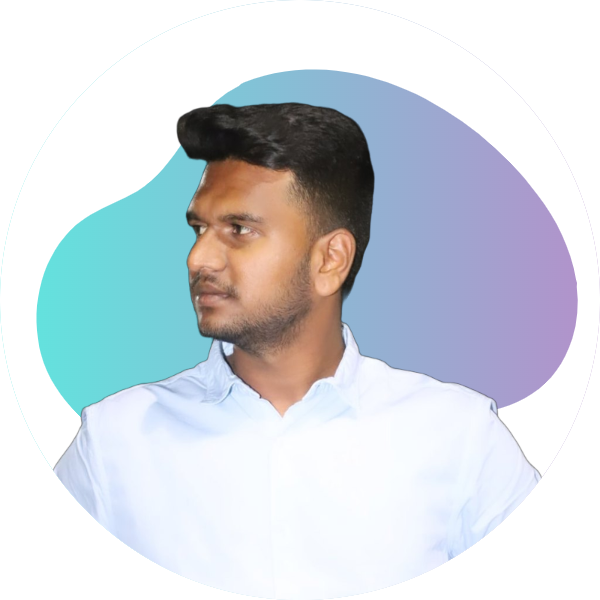
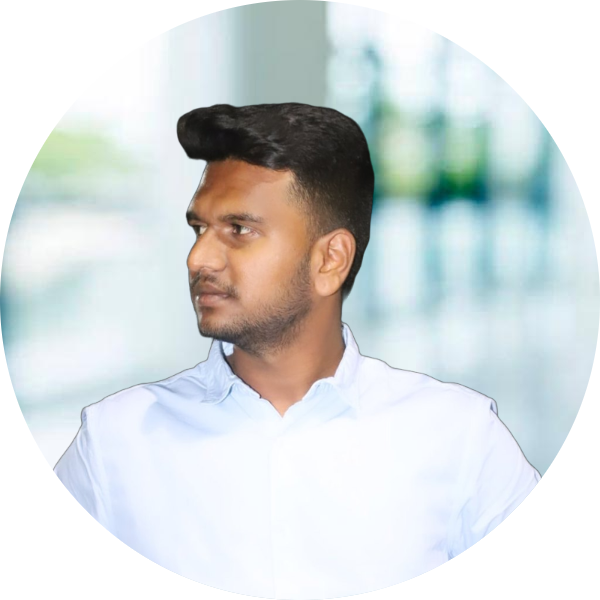
Final Commit

diff --git a/html/learner/lessons.html b/html/learner/lessons.html
@@ -1,12 +1,15 @@
 <!DOCTYPE html>
 <html lang="en">
+
 <head>
     <meta charset="UTF-8">
     <meta name="viewport" content="width=device-width, initial-scale=1.0">
     <title>Qwick Learn - Student lessons</title>
     <link rel="stylesheet" href="../../css/learner/lessons.css">
+
+
     <style>
-        .btn{
+        .btn {
             background-color: #4CAF50;
             color: #fff;
             padding: 10px 20px;
@@ -15,75 +18,82 @@
             cursor: pointer;
 
         }
-        li{
-            list-style: none;
 
+        li {
+            list-style: none;
+            margin-bottom: 5px;
+            font-size: 16px;
         }
     </style>
 </head>
+
 <body>
-         
-  <!--Main Content-->
-  <div class="container">
-    <nav class="breadcrumb">
-        <a href="mylearning.html">Home</a> >
-        <span id="course-name">Course Name</span>
-    </nav>
-    <div class="content">
-        <div class="main-content">
-            <div class="video-section">
-                <iframe id="video-frame" class="video-placeholder" frameborder="0"></iframe>
+
+    <!--Main Content-->
+    <div class="container">
+        <nav class="breadcrumb">
+            <a href="mylearning.html">Home</a> >
+            <span id="course-name">Course Name</span>
+        </nav>
+        <div class="content">
+            <div class="main-content">
+                <div class="video-section">
+                    <iframe id="video-frame" class="video-placeholder" frameborder="0"></iframe>
+                </div>
+                <div class="tabs">
+                    <button class="tablink" onclick="openTab(event, 'Overview')">Overview</button>
+                    <button class="tablink" onclick="openTab(event, 'Notes')">Notes</button>
+                    <button class="tablink" onclick="openTab(event, 'Resources')">Resources</button>
+                    <button class="tablink" onclick="openTab(event, 'Quiz')">Quiz</button>
+                </div>
+                <div class="tabcontent" id="Overview">
+                    <p id="overview-content">Overview content goes here.</p>
+                </div>
+                <div class="tabcontent" id="Notes">
+                    <textarea id="notes-text" rows="10" cols="100"
+                        placeholder="Write your notes here..."></textarea><br>
+                    <button onclick="downloadNotes()">Download Notes</button>
+                </div>
+                <div class="tabcontent" id="Resources">
+                    <ul id="resources-list"></ul>
+                    <iframe id="pdf-frame" style="width: 100%; height: 500px; border: none;"></iframe>
+                </div>
+
+
+                <div class="tabcontent" id="Quiz">
+                    <form id="quiz-form">
+                        <div id="quiz-content"></div>
+                        <button type="button" id="submit-quiz" class="btn">Submit Quiz</button>
+                    </form>
+                </div>
+                <button id="certificate-button" style="display: none;" class="btn">Get Certificate</button>
             </div>
-            <div class="tabs">
-                <button class="tablink" onclick="openTab(event, 'Overview')">Overview</button>
-                <button class="tablink" onclick="openTab(event, 'Notes')">Notes</button>
-                <button class="tablink" onclick="openTab(event, 'Resources')">Resources</button>
-                <button class="tablink" onclick="openTab(event, 'Quiz')">Quiz</button>
-            </div>
-            <div class="tabcontent" id="Overview">
-                <p id="overview-content">Overview content goes here.</p>
-            </div>
-            <div class="tabcontent" id="Notes">
-                <textarea id="notes-text" rows="10" cols="100" placeholder="Write your notes here..."></textarea><br>
-                <button onclick="downloadNotes()">Download Notes</button>
-            </div>
-            <div class="tabcontent" id="Resources">
-                <ul id="resources-list"></ul>
-            </div>
-            <div class="tabcontent" id="Quiz">
-                <form id="quiz-form">
-                    <div id="quiz-content"></div>
-                    <button type="button" id="submit-quiz" class="btn">Submit Quiz</button>
-                </form>
-            </div>
-            <button id="certificate-button" style="display: none;" class="btn">Get Certificate</button>
-        </div>
-        <div class="sidebar">
-            <div class="topic-list">
-                <p>LIST OF TOPICS</p>
-                <ul id="topic-list">
-                    <!-- Topics will be loaded here dynamically -->
-                </ul>
+            <div class="sidebar">
+                <div class="topic-list">
+                    <p>LIST OF TOPICS</p>
+                    <ul id="topic-list">
+                        <!-- Topics will be loaded here dynamically -->
+                    </ul>
+                </div>
             </div>
         </div>
     </div>
-</div>
 
     <script>
-        document.addEventListener("DOMContentLoaded", function() {
+        document.addEventListener("DOMContentLoaded", function () {
             const urlParams = new URLSearchParams(window.location.search);
             const courseId = urlParams.get('course');
-        
+
             fetch('../../jsonfles/courseSrc.json')
                 .then(response => response.json())
                 .then(data => {
                     const course = data.courses[courseId];
                     if (course) {
                         document.getElementById("course-name").textContent = course.name;
-        
+
                         // Load Overview
                         document.getElementById("overview-content").textContent = course.overview;
-        
+
                         // Load Topics
                         const topicList = document.getElementById("topic-list");
                         course.topics.forEach(topic => {
@@ -91,32 +101,37 @@
                             const a = document.createElement("a");
                             a.href = "#";
                             a.textContent = topic.title;
-                            a.onclick = function() {
+                            a.onclick = function () {
                                 loadVideo(topic.video);
                             };
                             li.appendChild(a);
                             topicList.appendChild(li);
                         });
-        
+
                         // Load Resources
                         const resourcesList = document.getElementById("resources-list");
+                        const pdfFrame = document.getElementById("pdf-frame");
+
                         course.resources.forEach(resource => {
                             const li = document.createElement("li");
                             const a = document.createElement("a");
                             a.href = resource.url;
                             a.textContent = resource.name;
-                            a.setAttribute('download', '');
+                            a.addEventListener('click', function (event) {
+                                event.preventDefault();
+                                pdfFrame.src = resource.url;
+                            });
                             li.appendChild(a);
                             resourcesList.appendChild(li);
                         });
-        
+
                         // Load Quiz
                         const quizContent = document.getElementById("quiz-content");
                         course.quiz.forEach((quizItem, index) => {
                             const questionEl = document.createElement("p");
                             questionEl.textContent = `${index + 1}. ${quizItem.question}`;
                             quizContent.appendChild(questionEl);
-        
+
                             const optionsEl = document.createElement("ul");
                             quizItem.options.forEach((option, optionIndex) => {
                                 const optionEl = document.createElement("li");
@@ -132,40 +147,40 @@
                             });
                             quizContent.appendChild(optionsEl);
                         });
-        
+
                         if (course.topics.every(topic => topic.completed)) {
                             document.getElementById("certificate-button").style.display = 'block';
                         }
                     }
                 })
                 .catch(error => console.error('Error loading video data:', error));
-        
+
             function loadVideo(videoUrl) {
                 const videoFrame = document.getElementById('video-frame');
                 videoFrame.src = videoUrl;
             }
-        
-            window.openTab = function(evt, tabName) {
+
+            window.openTab = function (evt, tabName) {
                 var i, tabcontent, tablinks;
-            
+
                 // Get all elements with class="tabcontent" and hide them
                 tabcontent = document.getElementsByClassName("tabcontent");
                 for (i = 0; i < tabcontent.length; i++) {
                     tabcontent[i].style.display = "none";
                 }
-            
+
                 // Get all elements with class="tablink" and remove the class "active"
                 tablinks = document.getElementsByClassName("tablink");
                 for (i = 0; i < tablinks.length; i++) {
                     tablinks[i].classList.remove("active");
                 }
-            
+
                 // Show the current tab, and add an "active" class to the button that opened the tab
                 document.getElementById(tabName).style.display = "block";
                 evt.currentTarget.classList.add("active");
             }
-            
-            window.downloadNotes = function() {
+
+            window.downloadNotes = function () {
                 const notes = document.getElementById('notes-text').value;
                 const blob = new Blob([notes], { type: 'text/plain' });
                 const url = URL.createObjectURL(blob);
@@ -177,12 +192,12 @@
                 document.body.removeChild(a);
                 URL.revokeObjectURL(url);
             };
-        
-            document.getElementById("submit-quiz").addEventListener("click", function() {
+
+            document.getElementById("submit-quiz").addEventListener("click", function () {
                 const quizForm = document.getElementById("quiz-form");
                 const formData = new FormData(quizForm);
                 let allCorrect = true;
-        
+
                 fetch('../../jsonfles/courseSrc.json')
                     .then(response => response.json())
                     .then(data => {
@@ -193,7 +208,7 @@
                                 allCorrect = false;
                             }
                         });
-        
+
                         if (allCorrect) {
                             document.getElementById("certificate-button").style.display = 'block';
                         } else {
@@ -202,8 +217,8 @@
                     })
                     .catch(error => console.error('Error validating quiz answers:', error));
             });
-        
-            document.getElementById("certificate-button").addEventListener("click", function() {
+
+            document.getElementById("certificate-button").addEventListener("click", function () {
                 const userName = prompt("Please enter your name:");
                 if (!userName) {
                     alert("Name is required to generate the certificate.");
@@ -211,7 +226,7 @@
                 }
                 const courseName = document.getElementById("course-name").innerText;
                 const date = new Date().toLocaleDateString();
-        
+
                 const certificateTemplate = `
                     <div style="width: 80%; margin: 50px auto; padding: 20px; border: 2px solid #333; border-radius: 10px; text-align: center; position: relative; background: linear-gradient(0deg, rgba(255,232,182,1) 0%, rgba(190,208,202,1) 100%);">
                         <img src="../../assets/img/logo.png" alt="QwickLearn Logo" style="display: block; margin: 0 auto 10px; width: 100px;">
@@ -229,14 +244,16 @@
                         </div>
                     </div>
                 `;
-        
+
                 const newWindow = window.open();
                 newWindow.document.write(certificateTemplate);
                 newWindow.document.close();
                 newWindow.print();
             });
         });
-        
+
     </script>
+    <script src="https://mozilla.github.io/pdf.js/build/pdf.js"></script>
 </body>
+
 </html>

diff --git a/jsonfles/demo.html b/jsonfles/demo.html
@@ -1,0 +1,56 @@
+<!DOCTYPE html>
+<html lang="en">
+<head>
+    <meta charset="UTF-8">
+    <meta name="viewport" content="width=device-width, initial-scale=1.0">
+    <title>Document</title>
+    <style>
+        #pdf-preview-container {
+            max-width: 800px;
+            margin: 20px auto;
+            padding: 20px;
+            background-color: #fff;
+            box-shadow: 0 0 5px rgba(0, 0, 0, 0.1);
+            border-radius: 5px;
+        }
+
+        #pdf-preview {
+            width: 100%;
+            height: 400px;
+            border: 1px solid #ccc;
+            background-color: #f1f1f1;
+            border-radius: 5px;
+        }
+    </style>
+</head>
+<body> 
+<iframe src="../assets//pdf/ai/Introduction-To-AI.pdf" height="1080px" width="70%"></iframe>
+
+<script src="https://mozilla.github.io/pdf.js/build/pdf.js"></script>
+<script>
+  document.addEventListener('DOMContentLoaded', function () {
+    const pdfContainer = document.getElementById('custom-pdf-container');
+
+    PDFJS.getDocument('../assets/pdf/ai/Introduction-To-AI.pdf').promise.then(function (pdf) {
+        pdf.getPage(1).then(function (page) {
+            const canvas = document.createElement('canvas');
+            const viewport = page.getViewport({ scale: 1 });
+
+            canvas.width = viewport.width;
+            canvas.height = viewport.height;
+            const context = canvas.getContext('2d');
+
+            const renderContext = {
+                canvasContext: context,
+                viewport: viewport,
+            };
+
+            page.render(renderContext).promise.then(function () {
+                pdfContainer.appendChild(canvas);
+            });
+        });
+    });
+});
+</script>
+</body>
+</html>

diff --git a/html/about.html b/html/about.html
@@ -164,7 +164,7 @@
       <div class="col-6 col-sm-4 col-md-3 col-lg-2 mb-4 mx-4">
         <div class="profile-card">
           <div class="img">
-            <img src="../assets/img/akhileshk.jpg" alt="Akhilesh K">
+            <img src="../assets/img/akhileshk.png" alt="Akhilesh K">
           </div>
           <div class="caption">
             <h3>Akhilesh K</h3>

diff --git a/html/home.html b/html/home.html
@@ -329,7 +329,7 @@
       <div class="col-6 col-sm-4 col-md-3 col-lg-2 mb-4 mx-4">
         <div class="profile-card">
           <div class="img">
-            <img src="../assets/img/akhileshk.jpg" alt="Akhilesh K">
+            <img src="../assets/img/akhileshk.png" alt="Akhilesh K">
           </div>
           <div class="caption">
             <h3>Akhilesh K</h3>
